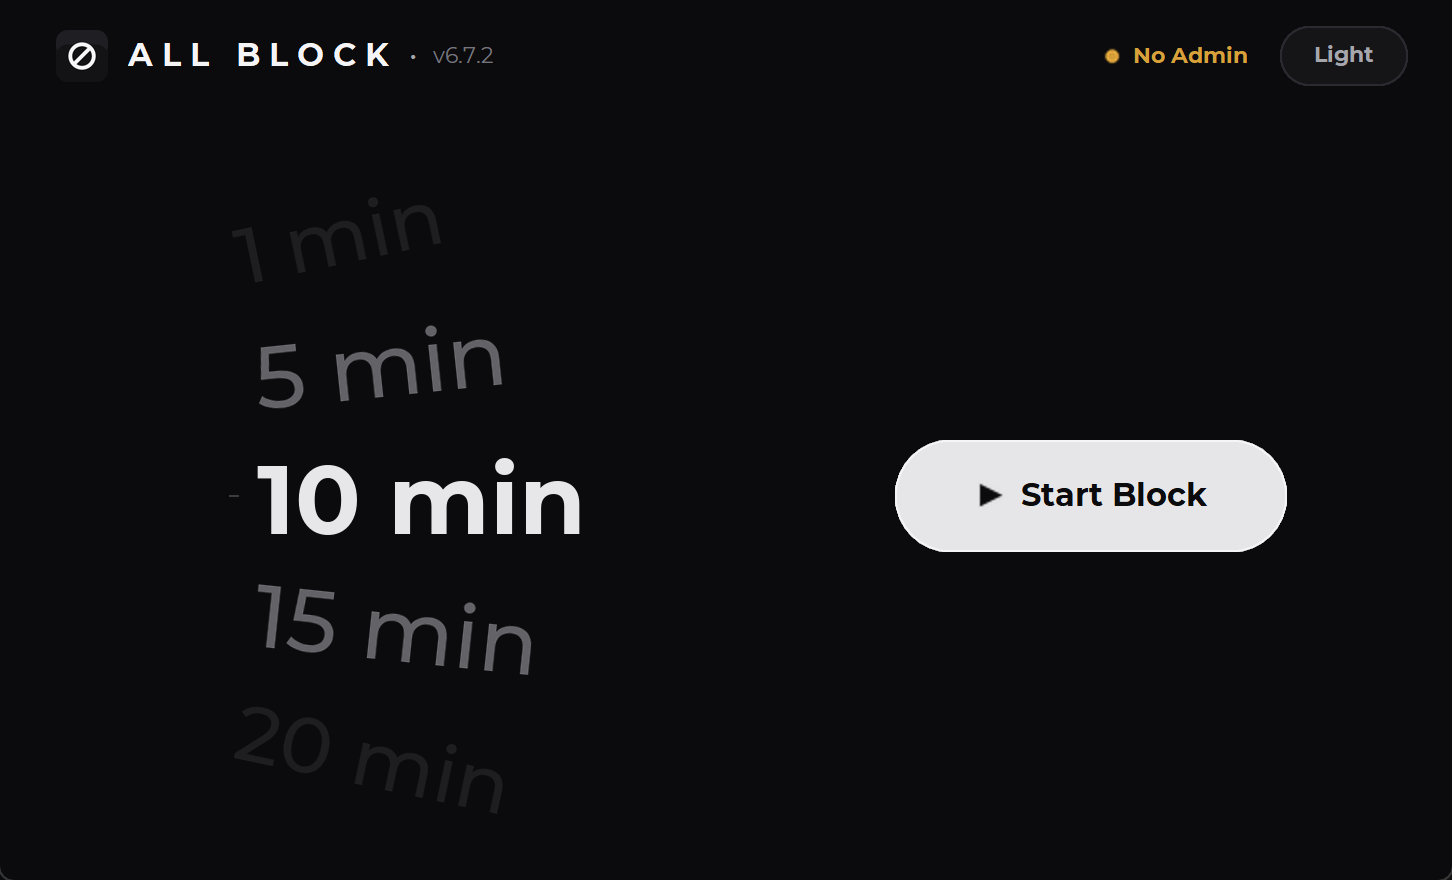
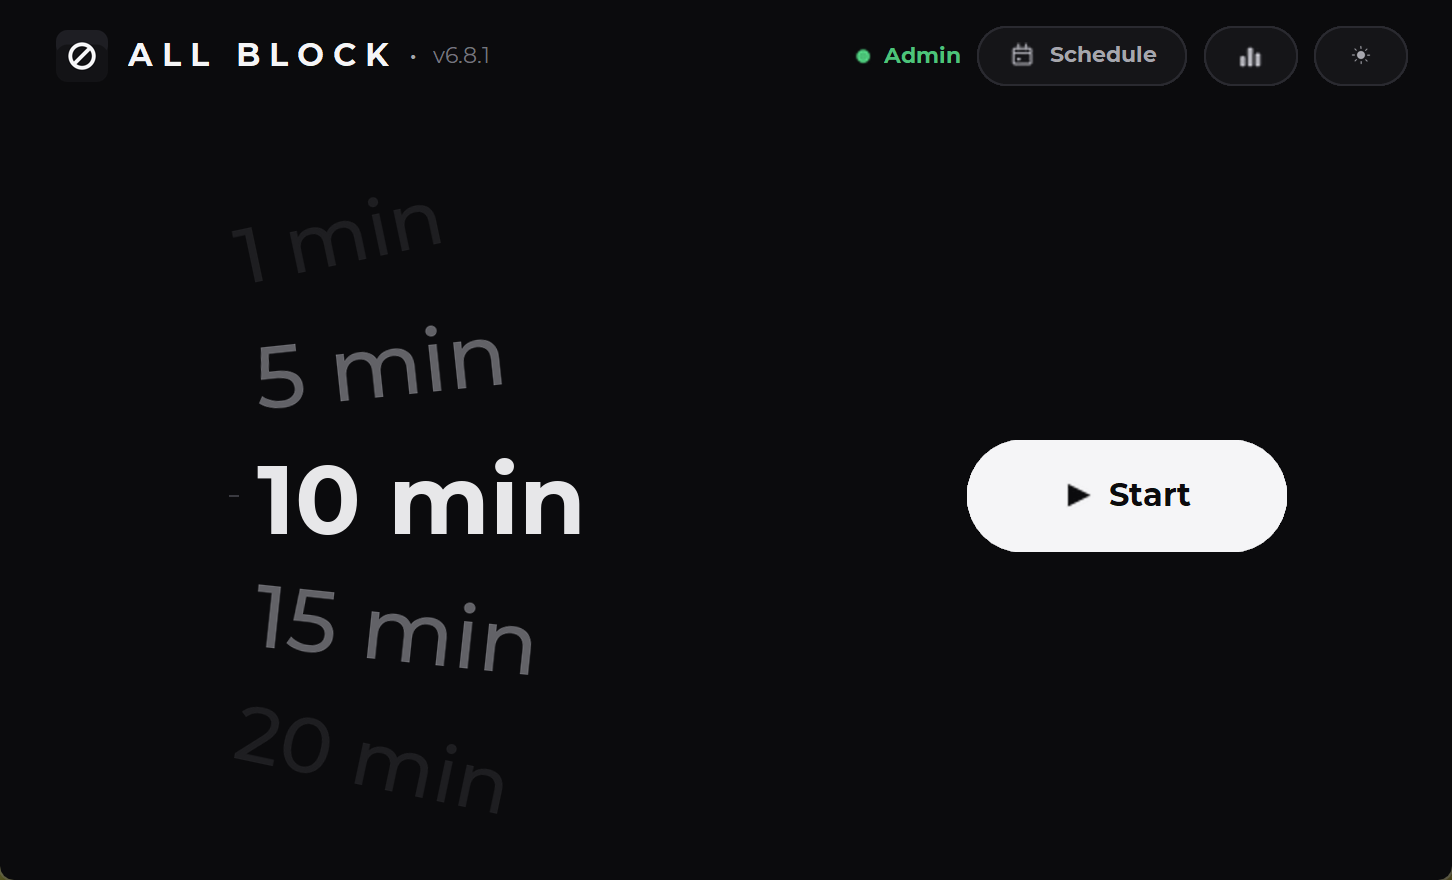
Refresh README screenshots and add SmartScreen bypass tutorial
Screenshots now reflect v6.8.1 (Admin badge, Schedule pill, icon-only
Stats/Theme buttons, desktop-shortcut wizard step). Adds an illustrated
walkthrough for the unsigned-exe SmartScreen/UAC prompts, plus an
"alternative to" line for discoverability.

diff --git a/README.md b/README.md
@@ -23,6 +23,8 @@ It's a single-purpose tool built around one idea: the only distraction blocker t
 
 All Block is completely free. It was inspired by Blockit, the Android app that does the same "lock yourself out" trick on phones — this is that idea, brought to Windows desktops.
 
+**A free alternative to** [Cold Turkey Blocker](https://getcoldturkey.com/), [Freedom](https://freedom.to/), [FocusMe](https://focusme.com/), [Forest](https://www.forestapp.cc/), [SelfControl](https://selfcontrolapp.com/), [Opal](https://www.opal.so/), and [StayFocusd](https://chromewebstore.google.com/detail/laankejkbhbdhmipfmgcngdelahlfoji) — for people who want a hard lockout instead of a blocklist you can just click past.
+
 ## Screenshots
 
 <table>
@@ -73,6 +75,35 @@ The one thing that's deliberately left untouched is <kbd>Ctrl</kbd>+<kbd>Alt</kb
 Download the latest `All Block.exe` from the [Releases](https://github.com/Auzeo/all-block/releases) page and run it — no install, no dependencies.
 
 Right-click → **Run as Administrator** if you want website blocking and the strongest input lock — All Block still runs without it, just with a couple of protections skipped (the wizard will tell you exactly what's missing).
+
+### Getting past the "Windows protected your PC" warning
+
+All Block isn't code-signed (a certificate costs money All Block doesn't charge you for), so the first time you run a freshly downloaded copy, Windows will show its standard warning for unsigned apps. This is normal, not a sign anything is wrong — here's how to get past it:
+
+<table>
+<tr>
+<td align="center" width="33%">
+<img src="screenshots/smartscreen-1-warning.png" alt="Windows protected your PC warning"><br>
+<sub>1. Click <b>More info</b></sub>
+</td>
+<td align="center" width="33%">
+<img src="screenshots/smartscreen-2-runanyway.png" alt="Expanded SmartScreen dialog with Run anyway button"><br>
+<sub>2. Click <b>Run anyway</b></sub>
+</td>
+<td align="center" width="33%">
+<img src="screenshots/smartscreen-3-uac.png" alt="User Account Control prompt"><br>
+<sub>3. Click <b>Yes</b> on the admin prompt</sub>
+</td>
+</tr>
+</table>
+
+<sub>(Illustrations of the real Windows 11 dialogs, recreated for clarity — the actual wording and layout on your PC will match.)</sub>
+
+1. **"Windows protected your PC"** appears — this is Microsoft Defender SmartScreen flagging that the app has no publisher certificate, not that it detected anything malicious. Click **More info**.
+2. The dialog expands to show the app name and "Unknown publisher." Click **Run anyway**.
+3. Windows then asks to confirm the admin permissions the app needs (see [Why All Block exists](#why-all-block-exists) for what that's used for) — click **Yes**.
+
+After the first run, Windows remembers your choice and won't ask again for that copy of the exe.
 
 ## Usage
 
